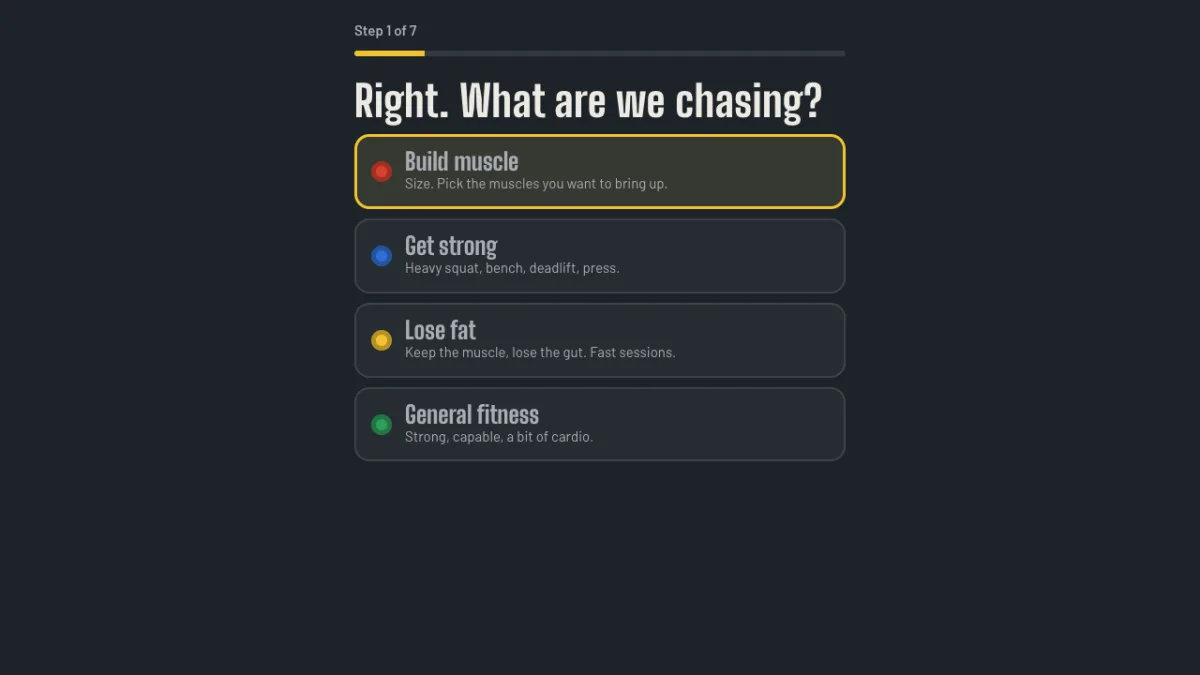
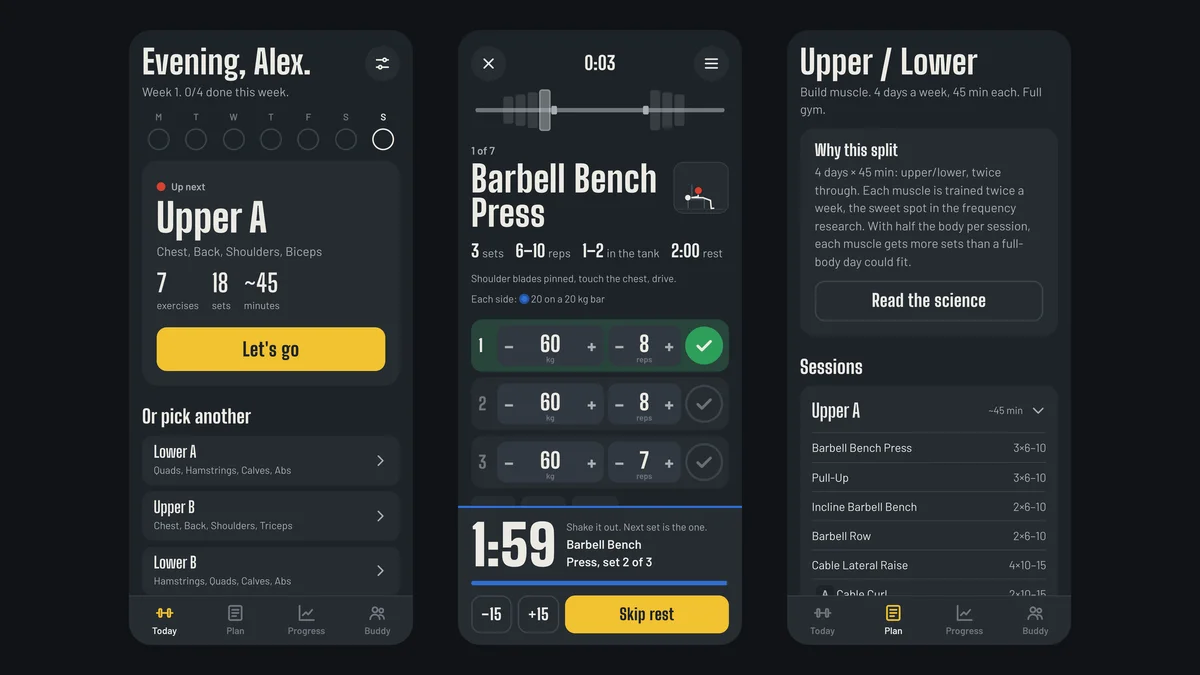
Gains: phone-screen thumbnail and updated description
The thumbnail shows Today, a workout in progress and the plan side by
side. The description covers exercise figures, rankings, accounts and
crews.

diff --git a/index.html b/index.html
@@ -214,8 +214,8 @@ footer{border-top:1px solid var(--rule);padding:24px 0 8px;font:400 12px var(--m
         <li class="sp">
           <a class="shot" href="https://gains.linear.co.za" rel="noopener" tabindex="-1" aria-hidden="true"><img src="img/projects/gains.webp" alt="" width="1200" height="675" loading="lazy" decoding="async"></a>
           <div class="hd"><h3>Gains</h3><span class="meta"><a class="dom" href="https://gains.linear.co.za" rel="noopener">gains.linear.co.za ↗</a></span></div>
-          <p>Gym plans built from your goal, how many days you can train and how long each session can be, with weekly volume per muscle set from the research. It then walks you through every workout: tick sets, swap a busy machine, rest timers and progression targets. Workouts stay on the phone; only a plan shared with a training buddy is uploaded.</p>
-          <span class="stk">React 19 · TypeScript · Zustand · node:sqlite · Vitest · PWA</span>
+          <p>Gym plans built from your goal, how many days you can train and how long each session can be, with sets per muscle taken from the research. It walks you through every workout with an animated figure for each exercise, rest timers and progression targets, and ranks your lifts against other gym-goers. Train alone and it all stays on the phone, or sign in to sync across devices and join a crew that shares a plan, sees each other's week and reacts to finished workouts.</p>
+          <span class="stk">React 19 · TypeScript · Zustand · Node · node:sqlite · Vitest · PWA</span>
         </li>
         <li class="sp">
           <a class="shot" href="https://github.com/linearza/react-for-ember-engineers" rel="noopener" tabindex="-1" aria-hidden="true"><img src="img/projects/learnreact.webp" alt="" width="1200" height="675" loading="lazy" decoding="async"></a>

diff --git a/CLAUDE.md b/CLAUDE.md
@@ -23,6 +23,7 @@ Projects are cards in `<ul class="sp-list">` under `#projects` in `index.html`, 
    ```
    - **Private project** (no public URL): replace the `<a class="shot">` with `<div class="shot locked" aria-hidden="true"><b>Name</b><i>No screenshots</i></div>`, drop the domain link and add `<span class="tag">Private</span>` in `.meta`. Never screenshot private projects yourself. If the user supplies a screenshot (demo data only), use `<div class="shot" aria-hidden="true"><img …></div>` instead of the placeholder: same frame, no link.
    - **Restricted access**: keep the link and add a tag, e.g. `<span class="tag">Invite only</span>`.
+   - **Mobile-first app** (a desktop capture is a thin column): drive it in Playwright at 390×844, `deviceScaleFactor: 3`, through to its best screens (demo name like "Alex", plausible numbers), then place three phone screens side by side with rounded corners on a 16:9 canvas a shade darker than the app background. Gains (`img/projects/gains.webp`) is the example.
    - **No hosted site, public repo**: link the GitHub repo with `GitHub ↗` as the link text. For the thumbnail, a repo's own banner or social preview often beats a screenshot; crop it to 16:9 and save it as 1200×675 WebP (`magick in.png -gravity center -crop <w>x<h>+0+0 +repage -resize 1200x675 out.webp`, plus `-filter point` for pixel art).
 4. **Copy rules**: no metrics, employer names or personal details; the site is brand-only. Plain, specific sentences, no marketing words.
 5. Run `scripts/check.sh`, view the page at desktop and phone widths, add a `CHANGELOG.md` entry, and open a PR.
